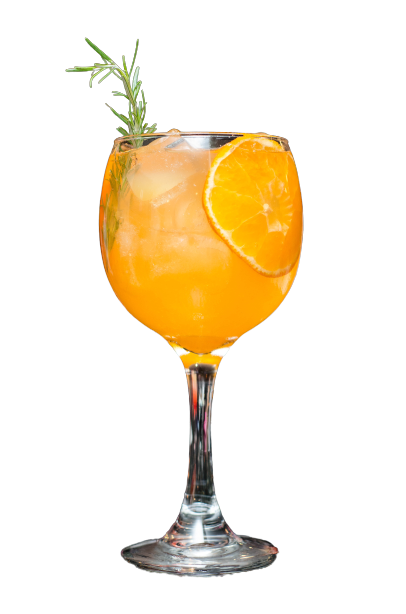
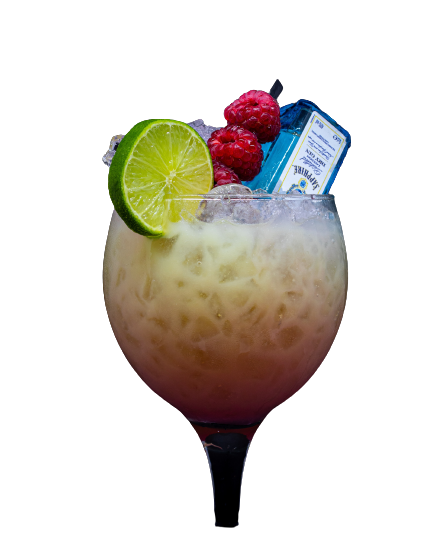
done with the fanta page

diff --git a/styles.css b/styles.css
@@ -1,4 +1,4 @@
-@import url('https://fonts.googleapis.com/css2?family=Open+Sans:wght@300;500&family=Ubuntu+Mono&display=swap');
+@import url('https://fonts.googleapis.com/css2?family=Montserrat:wght@500;700&display=swap');
 
 :root {
     --coke1: #d90103;
@@ -24,23 +24,25 @@ html {
 }
 
 body {
-    font-family: 'Open Sans', sans-serif;
+    font-family: 'Montserrat', sans-serif;
+    background: #000000;
 }
 
 /* HEADER */
 #header {
     display: flex;
-    position: fixed;
-    width: auto;
     width: 100%;
-    height: 5rem;
-    justify-content: space-between;
     align-items: center;
-    padding: 2rem;
+    justify-content: space-between;
+    padding: 3rem 2rem 2rem 2rem;
+    position: fixed;
+    overflow: hidden;
+    top: 0;
+    height: 60px;
 }
 
 #header-img {
-    width: 130px;
+    width: 100px;
     height: 100px;
 }
 
@@ -51,61 +53,94 @@ body {
 }
 
 #nav-bar, a {
-    justify-content: space-evenly;
-    margin-right: 2rem;
+    float: left;
+    display: block;
+    color: #f2f2f2;
+    text-align: center;
+    padding: 14px 16px;
     text-decoration: none;
     font-weight: bolder;
-    color: var(--fanta1);
+    color: #FFFFFF;
     font-size: 18px;
-}
-
-a:nth-of-type(2) {
-    color: var(--coke1);
-    font-weight: bolder;
-}
-
-a:nth-of-type(3) {
-    color: var(--sprite1);
-    font-weight: bolder;
-}
-
-/* BACKGROUND WAVE*/
-.custom-shape-divider-bottom-1658526338 {
-    position: absolute;
-    bottom: 0;
-    left: 0;
-    width: 100%;
-    overflow: hidden;
-    line-height: 0;
-    transform: rotate(180deg);
-}
-
-.custom-shape-divider-bottom-1658526338 svg {
-    position: relative;
-    display: block;
-    width: calc(300% + 1.3px);
-    height: 193px;
-}
-
-.custom-shape-divider-bottom-1658526338 .shape-fill {
-    fill: #D0021B;
 }
 
 /* CUP OF COCKTAIL */
 #home {
-    height: 350px;
-    width: 250px;
+    height: 450px;
     right: 10%;
     top: 15%;
     position: absolute;
+    z-index: -1;
 }
 
 /* FORM */
 #form {
-    height: auto;
-    width: 100%;
+    margin-top: 15rem;
+    margin-left: 5rem;
+    height: 100vh;
 }
 
+#form h2 {
+    font-weight: 800;
+    font-size: 4rem;
+    font-family: 'Montserrat', sans-serif;
+    text-transform: capitalize;
+    color: var(--sprite-text);
+}
+
+#form p {
+    margin-bottom: 1rem;
+    color: var(--coke-text);
+}
 #email {
-    margin-top: 15rem;
+    border-radius: 5px;
+    border: none;
+    outline: none;
+    background-color: var(--sprite-text);
+    width: 380px;
+    height: 3rem;
+    padding-left: 1rem;
+    font-family: 'Montserrat', sans-serif;
+    font-size: 17px;
+}
+
+#submit {
+    outline: none;
+    border: none;
+    background-color: var(--fanta3);
+    height: 3rem;
+    width: 6rem;
+    margin-left: .5rem;
+    border-radius: 5px;
+    font-family: 'Montserrat', sans-serif;
+}
+
+/* FANTA */
+
+#fanta {
+    height: 100vh;
+    width: auto;
+    background-color: var(--fanta2);
+}
+
+#fanta h2 {
+    font-weight: 800;
+    font-size: 4rem;
+    font-family: 'Montserrat', sans-serif;
+    text-transform: capitalize;
+    color: var(--sprite-text);
+    margin-left: 35rem;
+    padding-top: 15rem;
+    width: fit-content;
+}
+
+#fanta p {
+    margin-left: 35rem;
+    color: var(--coke-text);
+    padding-right: 5rem;
+}
+
+#fanta-drink {
+    position: absolute;
+    margin-top: 5rem;
 }

diff --git a/index.html b/index.html
@@ -10,26 +10,27 @@
 </head>
 
 <body>
-  <div class="custom-shape-divider-bottom-1658526338">
-    <svg data-name="Layer 1" xmlns="http://www.w3.org/2000/svg" viewBox="0 0 1200 120" preserveAspectRatio="none">
-        <path d="M0,0V46.29c47.79,22.2,103.59,32.17,158,28,70.36-5.37,136.33-33.31,206.8-37.5C438.64,32.43,512.34,53.67,583,72.05c69.27,18,138.3,24.88,209.4,13.08,36.15-6,69.85-17.84,104.45-29.34C989.49,25,1113-14.29,1200,52.47V0Z" opacity=".25" class="shape-fill"></path>
-        <path d="M0,0V15.81C13,36.92,27.64,56.86,47.69,72.05,99.41,111.27,165,111,224.58,91.58c31.15-10.15,60.09-26.07,89.67-39.8,40.92-19,84.73-46,130.83-49.67,36.26-2.85,70.9,9.42,98.6,31.56,31.77,25.39,62.32,62,103.63,73,40.44,10.79,81.35-6.69,119.13-24.28s75.16-39,116.92-43.05c59.73-5.85,113.28,22.88,168.9,38.84,30.2,8.66,59,6.17,87.09-7.5,22.43-10.89,48-26.93,60.65-49.24V0Z" opacity=".5" class="shape-fill"></path>
-        <path d="M0,0V5.63C149.93,59,314.09,71.32,475.83,42.57c43-7.64,84.23-20.12,127.61-26.46,59-8.63,112.48,12.24,165.56,35.4C827.93,77.22,886,95.24,951.2,90c86.53-7,172.46-45.71,248.8-84.81V0Z" class="shape-fill"></path>
-    </svg>
-  </div>
   <header id="header">
     <img id="header-img" src="./Assets/LOGO.png" />
     <nav id="nav-bar">
-      <a href="#email" class="nav-link">FANTA</a>
+      <a href="#fanta" class="nav-link">FANTA</a>
       <a href="#submit" class="nav-link">COKE</a>
-      <a href="#form" class="nav-link">SPRITE</a>
+      <a href="index.html" class="nav-link">SPRITE</a>
+      <a href="#price" class="nav-link">PRICING</a>
     </nav>
   </header>
-  <img src="./Assets/home.png" id="home" />
+  <img src="./Assets/home.jpg" id="home" />
   <form id="form" action="https://www.freecodecamp.com/email-submit">
-    <input id="email" !important placeholder="enter your email" type="email" name="email" />
+    <h2>Lorem ipsum</h2>
+    <p>Lorem, ipsum dolor sit amet consectetur adipisicing elit. Quam, voluptate.</p>
+    <input id="email" !important placeholder="Enter your email" type="email" name="email" />
     <input type="submit" id="submit" action="https://www.freecodecamp.com/email-submit" />
   </form>
+  <div id="fanta">
+    <img src="./Assets/fanta-rbg.png" id="fanta-drink" />
+    <h2>Lorem ipsum</h2>
+    <p>Lorem ipsum dolor sit amet consectetur adipisicing elit. Voluptates accusamus optio rem natus iste ex consequatur nam eum sed dicta, voluptate repellendus atque, quas quaerat ipsa inventore, omnis rerum nisi.</p>
+  </div>
 </body>
 
 </html>
